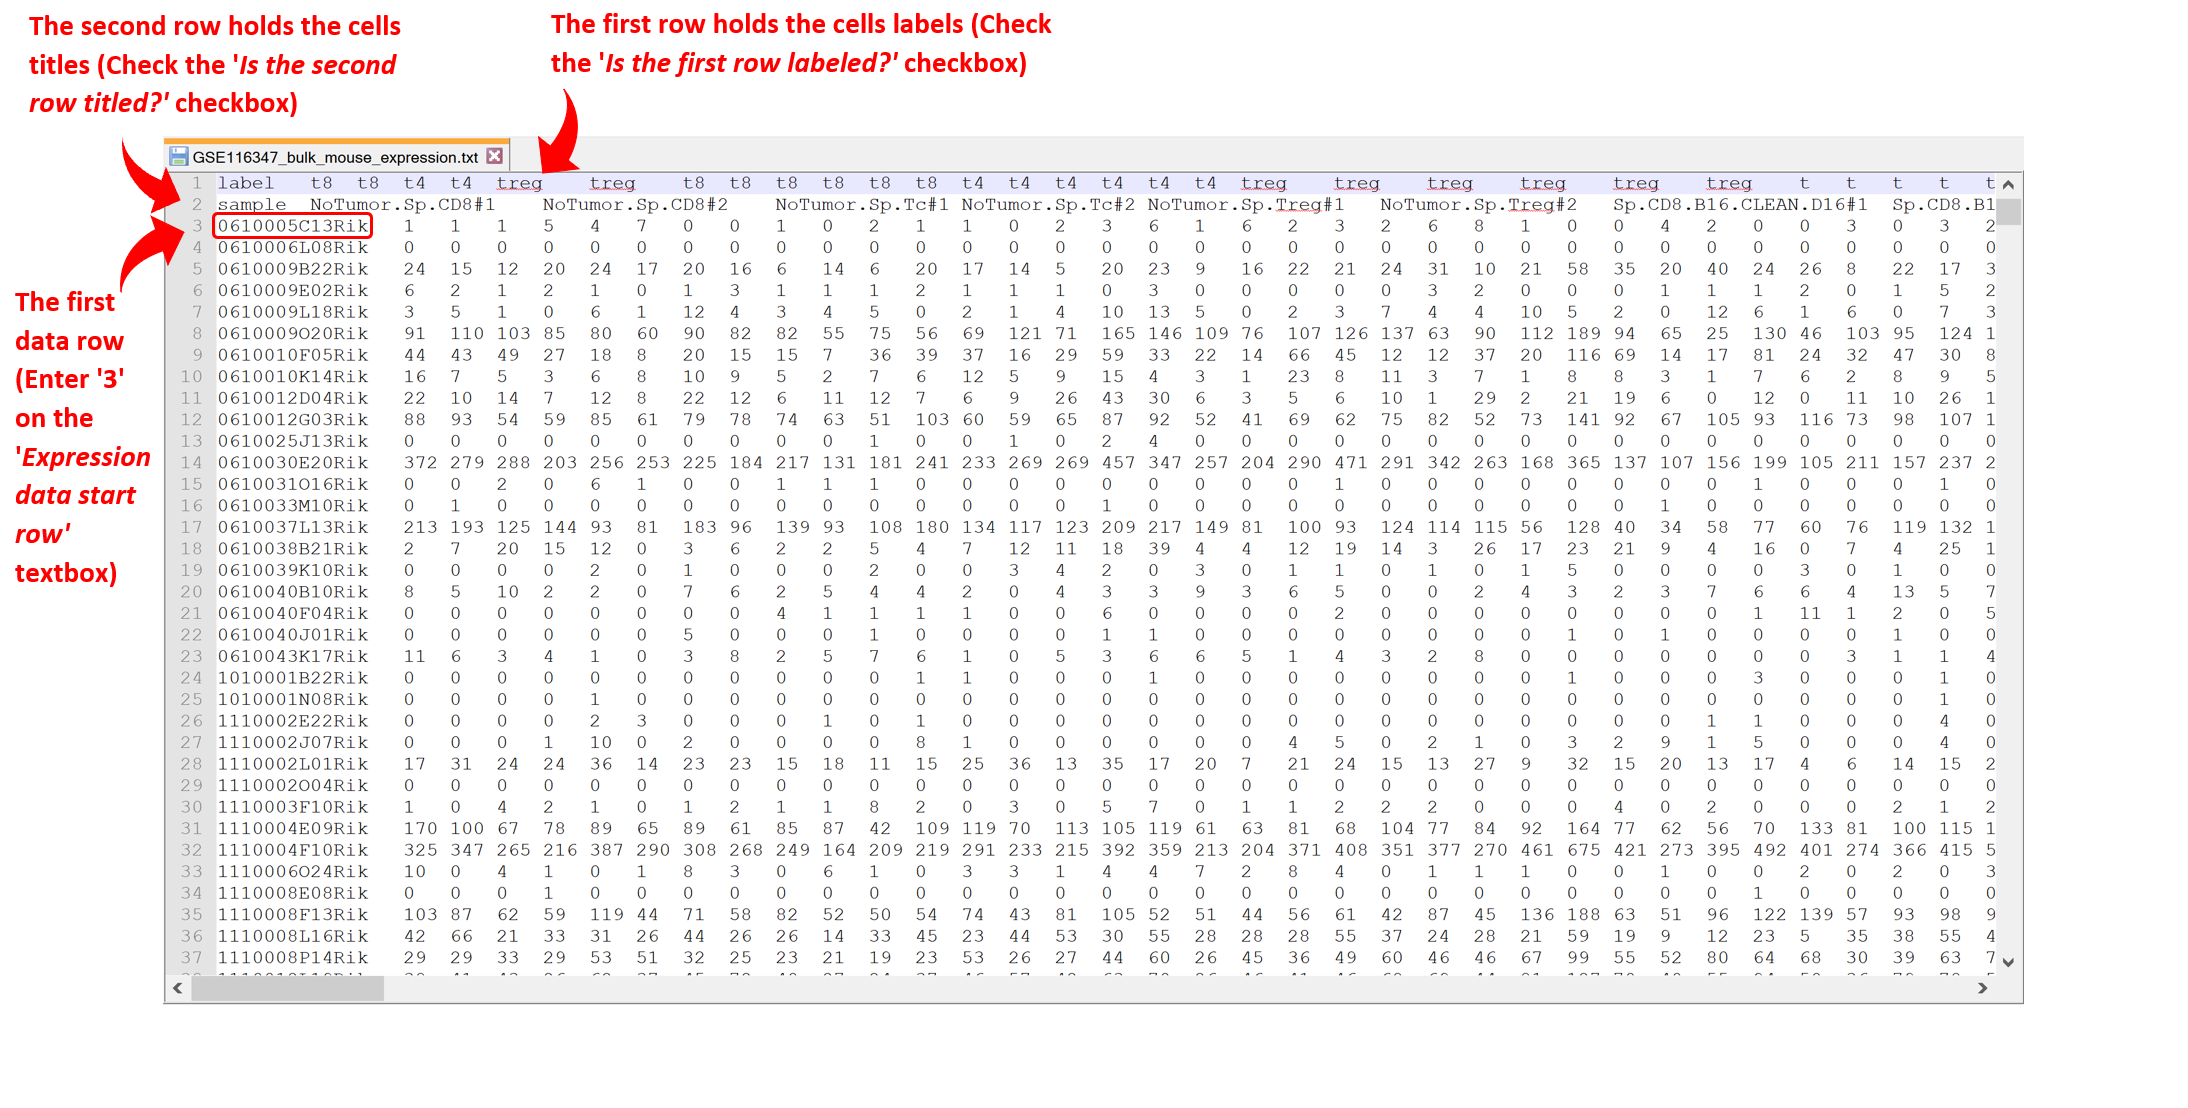
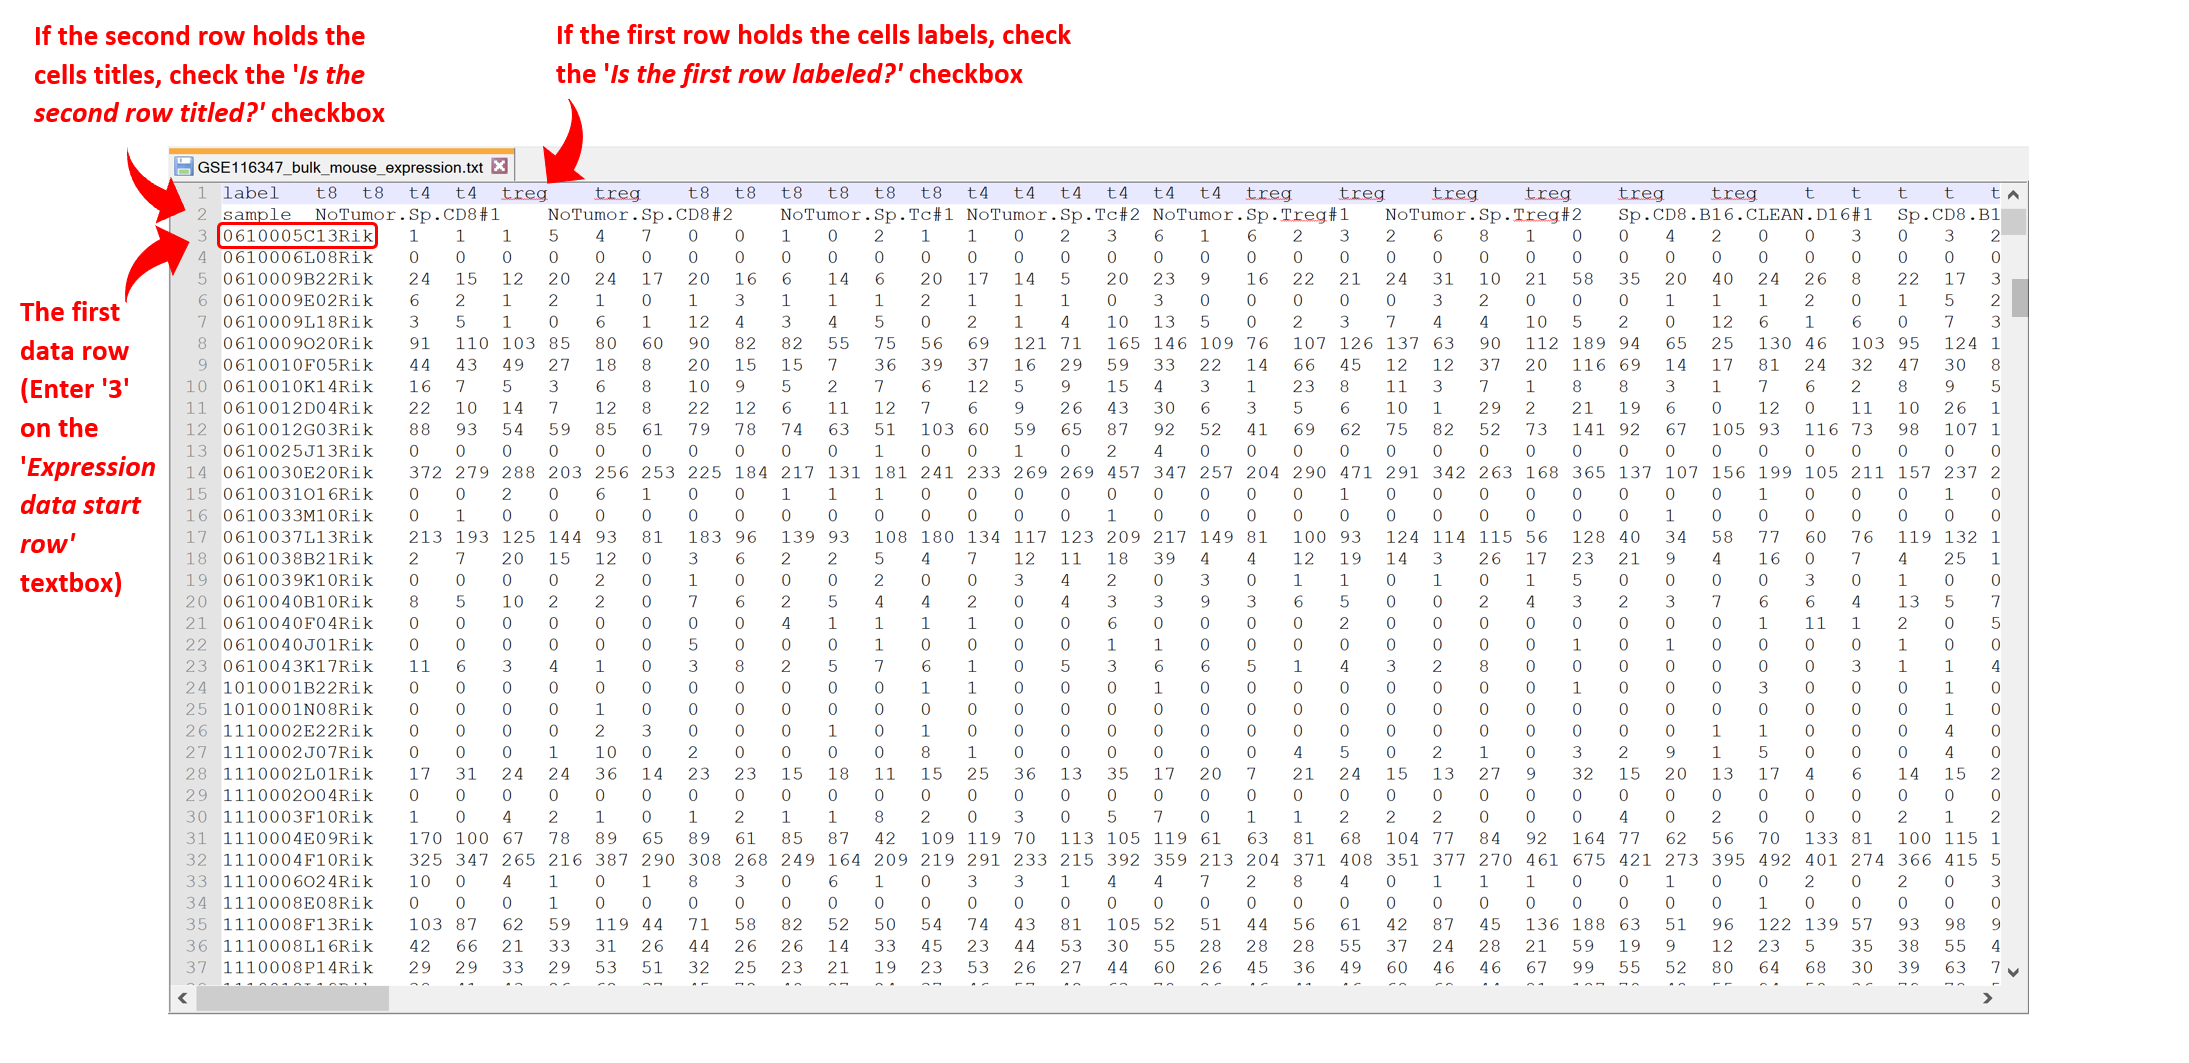
about

Changed region(s): [[0.0, 0.0, 0.9324, 0.9624]]

diff --git a/routing/components/About/about.html b/routing/components/About/about.html
@@ -1,14 +1,16 @@
 <br>
 <p ng-style="{'text-align': 'left', 'padding-left': '10%', 'font-size':'4.0rem','font-weight':'bold'}">Welcome to the Immune Cells Classifier!</p>
+<div ng-style="{'text-align': 'left', 'padding-left': '10%', 'font-size': '2.0rem'}">Immune Cells Classifier (ICC) is a free web application to classify cells from single cell RNA sequencing experiments into immune cells types.</div>
 <div ng-style="{'text-align': 'left', 'padding-left': '10%', 'font-size': '2.0rem'}">Upload an expression data file (up to 200MB) and the classifier will classify the type of each cell.</div><br>
 <p class="heads">Go To:</p><ul ng-style="{'padding-left': '12%'}">
-<li><a href='' class="links" ng-style="{'text-align': 'left'}" ng-click="scrollTo('#ExpData')">Expression Data Explanation</a></li>
-<li><a href='' class="links" ng-style="{'text-align': 'left'}" ng-click="scrollTo('#ConvFile')">Conversion File Explanation</a></li>
-<li><a href='' class="links" ng-style="{'text-align': 'left'}" ng-click="scrollTo('#ResScreen')">Results Screen Explanation</a></li>
+<li><a href='' class="links" ng-style="{'text-align': 'left'}" ng-click="scrollTo('#ExpData')">Expression Data Format</a></li>
+<li><a href='' class="links" ng-style="{'text-align': 'left'}" ng-click="scrollTo('#ConvFile')">Conversion File Format</a></li>
+<li><a href='' class="links" ng-style="{'text-align': 'left'}" ng-click="scrollTo('#ClassMethods')">Classification Methods Explanation</a></li>
+<li><a href='' class="links" ng-style="{'text-align': 'left'}" ng-click="scrollTo('#ResScreen')">Results Screen Interpretation</a></li>
 <br>
 </ul>
-<div ng-style="{'text-align': 'left', 'padding-left': '10%', 'font-size': '2.0rem'}">The classifier will calculate a predicted type for each cell of the given input file.
-        There are 11 classified cell types, as follows:</div>
+<div ng-style="{'text-align': 'left', 'padding-left': '10%', 'font-size': '2.0rem'}">ICC currently recognizes 11 immune cell types. More cell types will be added shortly.</br>
+    Recognized cell types:</div>
         <ul id="myTypes">
             <li class="type">B</li>
             <li class="type">B1ab</li>
@@ -22,7 +24,7 @@
             <li class="type">Tgd</li>
             <li class="type">Treg</li>
             <li class="type">Other</li>
-        </ul>
+        </ul></br>
         <div ng-style="{'text-align': 'left', 'padding-left': '10%', 'font-size': '2.0rem'}">The groupings of cell sub-types used by the classifier are as follows:
         <table><tr><td ng-style="{'padding-left':'0%'}"><img ng-src="../../assets/img/type1.jpeg" width="200px" height="300px" /></td><td ng-style="{'padding-left':'30px'}"><img ng-src="../../assets/img/type2.jpeg" width="200px" height="300px"  /></td><td ng-style="{'padding-left':'30px'}"><img ng-src="../../assets/img/type3.jpeg" width="200px" height="300px" /></td></tr></table></div><br>
         <div ng-style="{'text-align': 'left', 'padding-left': '10%', 'font-size': '2.0rem'}">IMPORTANT: In order to properly calculate the classification accuracy, the cell types given in the input file must be the 11-type.</div><br>
@@ -30,18 +32,18 @@
 <div>
 
     <p class="heads" id="ExpData">Expression Data</p>
-    <div ng-style="{'text-align': 'left', 'padding-left': '10%' , 'font-size': '1.7rem'}">The expression data file will contain genes (rows) and cells (columns). Each inner value of the file will hold the expression level of the given gene in the given cell.<br>
-    Note: The system supports expression files of up to 200MB.</br>
+    <div ng-style="{'text-align': 'left', 'padding-left': '10%' , 'font-size': '1.7rem'}">The expression data file should contain genes (rows) and cells (columns). Cell X<sub ng-style="{'vertical-align':'sub'}">ij</sub> of the file will hold the expression level of gene i in cell j.<br>
+    Note: The system currently supports expression files of up to 200MB.</br>
     Here is an example of such file:</div>
     <!--simple expression file-->
     <img ng-style="{'height': '80%','width':'80%'}" ng-src="../../assets/img/Expression_Data_File.PNG" />
 
     <br>
     <br>
-    <div ng-style="{'text-align': 'left', 'padding-left': '10%', 'font-size': '1.7rem'}">When uploading an expression data file, figure out the following details:<br>
+    <div ng-style="{'text-align': 'left', 'padding-left': '10%', 'font-size': '1.7rem'}">When uploading an expression data file, note the following details:<br>
         1.	The platform that was used to collect the data (Microarray/Bulk RNA Sequencing/Single Cell RNA Sequencing)<br>
         2.	Expression data start row<br>
-        3.	Expression data end row (If no value was given – will default choose the last line of the file)<br>
+        3.	Expression data end row (Default is the last line of the file)<br>
         4.	Is the first row labeled? (cells labels)<br>
         5.	Is the second row titled? (cells titles)<br>
         6.	Are the genes labeled by gene symbol? If not, upload a conversion file as well<br>
@@ -61,7 +63,7 @@
         <br>
     </div>
     <p class="heads" id="ConvFile">Conversion File</p>
-    <div ng-style="{'text-align': 'left', 'padding-left': '10%' , 'font-size': '1.7rem'}">In case the genes in the expression data are not labeled by gene symbol, a conversion file should be attached.<br>
+    <div ng-style="{'text-align': 'left', 'padding-left': '10%' , 'font-size': '1.7rem'}">In case the genes in the expression data are not labeled by gene symbol, a conversion file should be uploaded.<br>
         Here is an example of a conversion file:
     </div>
     <!--Converion - conversion file-->
@@ -69,9 +71,9 @@
 
     <br>
     <br>
-    <div ng-style="{'text-align': 'left', 'padding-left': '10%' , 'font-size': '1.7rem'}">When uploading a conversion file, figure out:<br>
+    <div ng-style="{'text-align': 'left', 'padding-left': '10%' , 'font-size': '1.7rem'}">When uploading a conversion file, note:<br>
         1.	Conversion data start row<br>
-        2.	Conversion data end row (If no value was given – will default choose the last line of the file)<br>
+        2.	Conversion data end row (Default is the last line of the file)<br>
         3.	Gene ID column<br>
         4.	Gene symbol column
         <br>
@@ -99,9 +101,25 @@
         Second row titled: No<br>
     </div>
     <br>
-
-    <div class="heads" id="ResScreen" ng-style="{'text-align': 'left', 'padding-left': '10%', 'font-size': '1.7rem'}"><b>Results Screen Tutorial: </b><br/>
-    <iframe class="embeddedObject" name="embedded_content" scrolling="no" frameborder="0" type="text/html" style="overflow:hidden;" src="https://www.screencast.com/users/dor.bartal/folders/Jing/media/1bd6ba7f-5567-4525-9981-1bf5dcbe0f32/embed" height="60%" width="60%" webkitallowfullscreen mozallowfullscreen allowfullscreen></iframe> </div>
+    <p class="heads" id="ClassMethods">Classification Methods Explanation</p>
+    <div ng-style="{'text-align': 'left', 'padding-left': '10%' , 'font-size': '1.7rem'}">Classification results depends on the classification method. The default method is Random Forest.<br>
+        For further explanation of the different methods:
+        <ul id="classMthds">
+            <li><a href="https://en.wikipedia.org/wiki/Random_forest" download>Random Forset</a></li>
+            <li><a href="https://en.wikipedia.org/wiki/K-nearest_neighbors_algorithm" download>KNN (K-nearest Neighbors)</a></li>
+            <li><a href="https://en.wikipedia.org/wiki/Support-vector_machine" download>SVM (Support-vector Machine)</a></li>
+        </ul>
+    </div></br>
+    
+    <p class="heads" id="ResScreen">Results Screen Interpretation</p>
+    <div ng-style="{'text-align': 'left', 'padding-left': '10%' , 'font-size': '1.7rem'}">Classification results include, on the left, a pie-chart of the distribution of cell types. Upon hover the amount and percentages of that type is presented.</br>
+        On the right, a bar chart of the distribution of confidence levels – upon hover the number of cells in the given confidence level is presented.
+        </div><br>
+        <div ng-style="{'text-align': 'left', 'padding-left': '10%', 'font-size': '1.7rem'}"><b>Results screen tutorial: </b><br/>
+            <iframe class="embeddedObject" name="embedded_content" scrolling="no" frameborder="0" type="text/html" style="overflow:hidden;" src="https://www.screencast.com/users/dor.bartal/folders/Jing/media/1bd6ba7f-5567-4525-9981-1bf5dcbe0f32/embed" height="60%" width="60%" webkitallowfullscreen mozallowfullscreen allowfullscreen></iframe></div>
+    </div>
+    
+    
        <br>
 
     <h4>© Made by Ravid Ben Harosh & Dor Bartal</h4>
